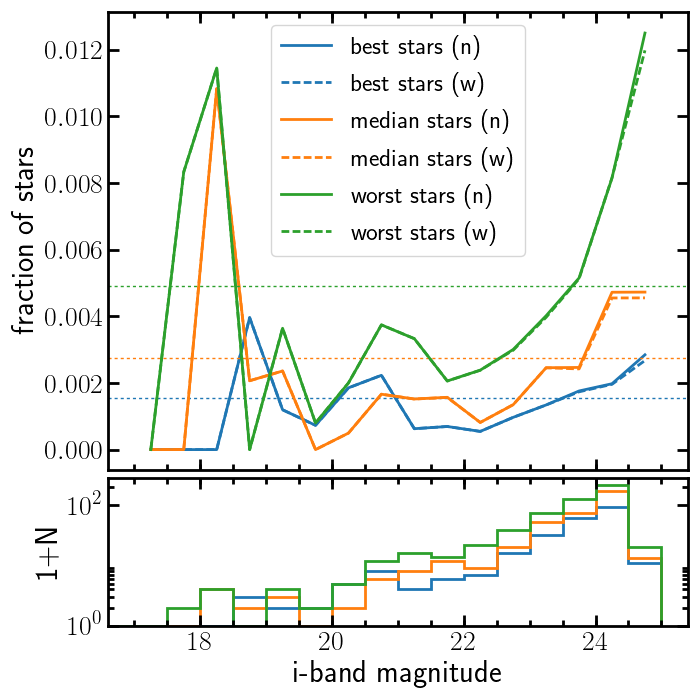
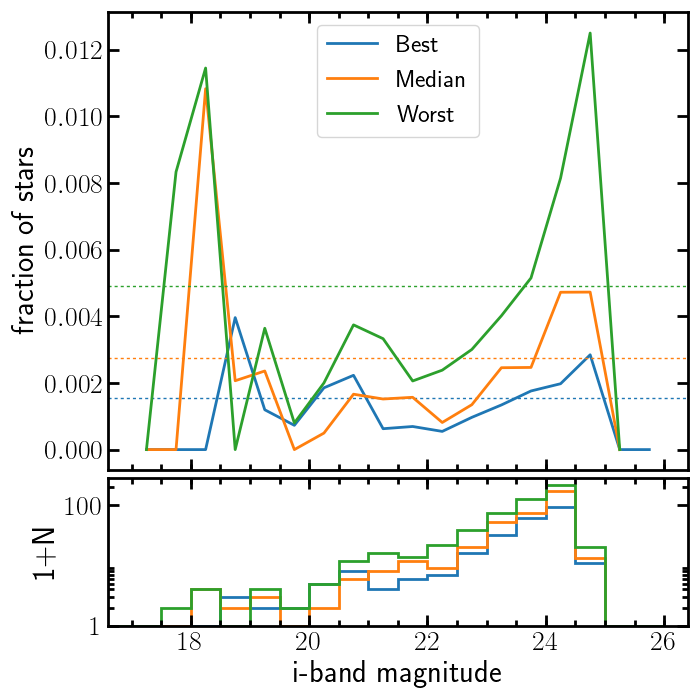
various styaesthetic changes to purity plot

diff --git a/purity.py b/purity.py
@@ -110,13 +110,14 @@ def match(ra, dec, ra_stars, dec_stars, label='stars', seeing='median',
     return fig, ax, indices
 
 
-def plot(cosmos, good, stars, galaxies, rms=0.37, plot_path='plots'):
+def plot(cosmos, good, stars, galaxies, rms=0.37, plot_path='plots',
+         show_weights=False):
     """
     Calculate and plot the contamination as a function of magnitude.
     The first four arguments are dictionaries with seeing as keys
 
     """
-    magbins = arange(15, 25.1, 0.5)
+    magbins = arange(15, 26.1, 0.5)
     mag = (magbins[:-1]+magbins[1:]) / 2
     keys = ('best', 'median', 'worst')
     overall = {key: 0 for key in keys}
@@ -141,8 +142,11 @@ def plot(cosmos, good, stars, galaxies, rms=0.37, plot_path='plots'):
         nstars = hax.hist(imag[stars[key]], magbins, histtype='step',
                           lw=2, color=color, log=True, bottom=1)[0]
         ngals = histogram(imag[galaxies[key]], magbins)[0]
-        ax.plot(mag, nstars/ntot, '-', color=color,
-                label='{0} stars (n)'.format(key))
+        if show_weights:
+            label = '{0}-n'.format(key.capitalize())
+        else:
+            label = key.capitalize()
+        ax.plot(mag, nstars/ntot, '-', color=color, label=label)
         #ax.plot(mag, ngals/ntot, '--', label='{0} galaxies'.format(key))
         # now weighted fractions
         weight = 1 / (cat['ishape_hsm_regauss_sigma']**2 + rms**2)
@@ -151,13 +155,15 @@ def plot(cosmos, good, stars, galaxies, rms=0.37, plot_path='plots'):
                            weights=weight[stars[key]])[0]
         wgals = histogram(imag[galaxies[key]], magbins,
                           weights=weight[galaxies[key]])[0]
-        ax.plot(mag, wstars/wtot, '--', color=color,
-                label='{0} stars (w)'.format(key))
+        if show_weights:
+            ax.plot(mag, wstars/wtot, '--', color=color,
+                    label=label.replace('-n', '-w'))
     ax.legend(loc='upper center')
     for i in (ax, hax):
-        i.set_xlim(16.6, 25.4)
+        i.set_xlim(16.6, 26.4)
         i.xaxis.set_major_locator(ticker.MultipleLocator(2))
         i.xaxis.set_minor_locator(ticker.MultipleLocator(0.5))
+    hax.yaxis.set_major_formatter(ticker.FormatStrFormatter('$%d$'))
     ax.set_ylabel('fraction of stars')
     hax.set_xlabel('i-band magnitude')
     hax.set_ylabel('1+N')
